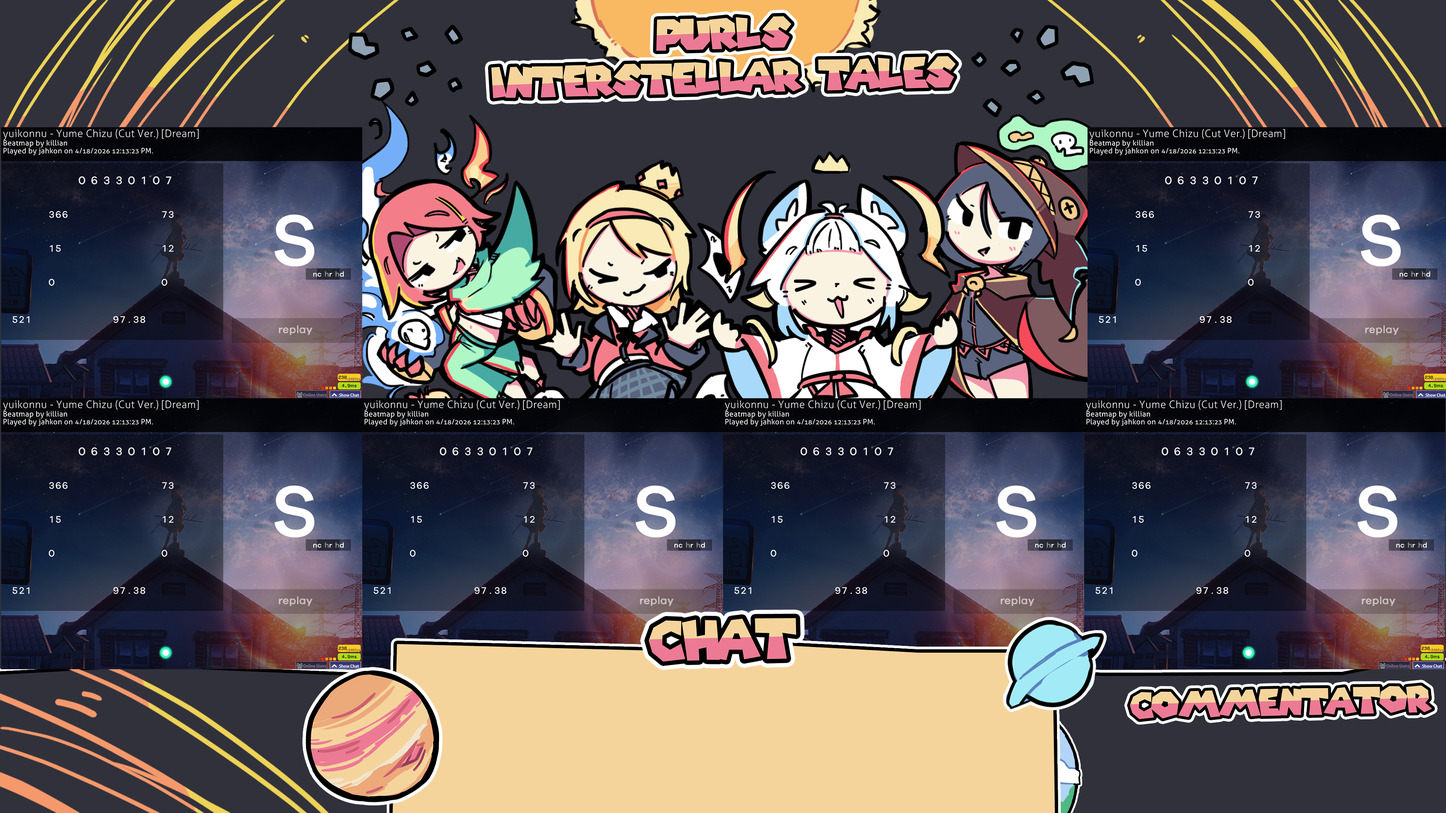
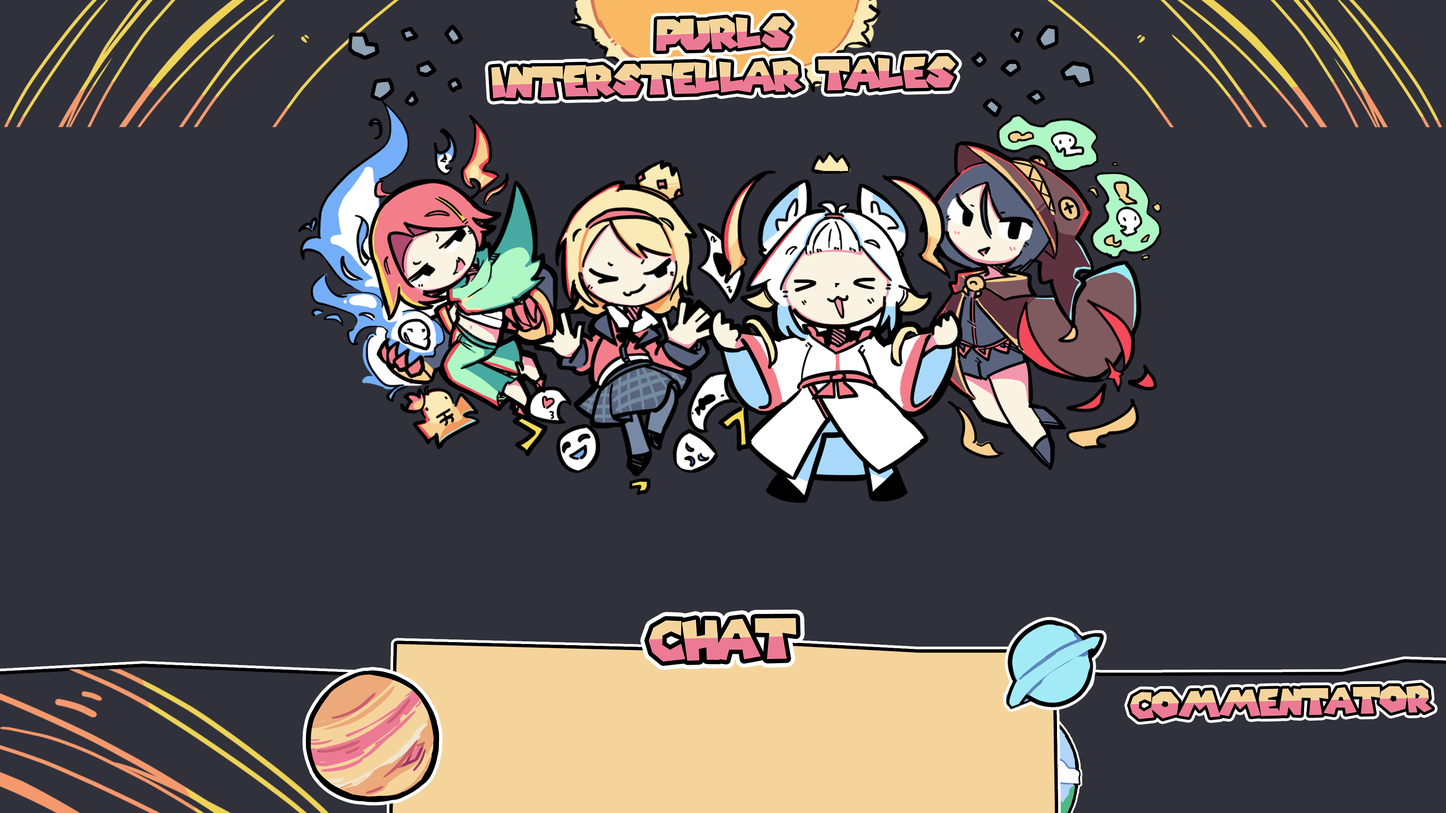
feat: complete adding greenscreen

diff --git a/main/style.css b/main/style.css
@@ -1,5 +1,8 @@
 :root {
     --team-star-container-x: 50px;
+    --greenscreen-top-y: 170px;
+    --greenscreen-width: 480px;
+    --greenscreen-height: 360px;
 }
 
 /* Whole Page */
@@ -29,3 +32,18 @@
     position: absolute;
     top: 135px;
 }
+
+/* Green Screens */
+.greenscreen {
+    position: absolute;
+    left: 0;
+    background-color: #0F0;
+    width: var(--greenscreen-width);
+    height: var(--greenscreen-height);
+}
+.greenscreen-top { top: var(--greenscreen-top-y); }
+.greenscreen-bottom { top: calc(var(--greenscreen-height) + var(--greenscreen-top-y)); }
+.greenscreen-x-1 { left: calc(var(--greenscreen-width) * 0); }
+.greenscreen-x-2 { left: calc(var(--greenscreen-width) * 1); }
+.greenscreen-x-3 { left: calc(var(--greenscreen-width) * 2); }
+.greenscreen-x-4 { left: calc(var(--greenscreen-width) * 3); }

diff --git a/main/index.html b/main/index.html
@@ -220,6 +220,14 @@
             <img class="team-star" src="static/stars/star empty.png">
             <img class="team-star" src="static/stars/star empty.png">
         </div>
+
+        <!-- Greenscreens -->
+        <div class="greenscreen greenscreen-top greenscreen-x-1"></div>
+        <div class="greenscreen greenscreen-bottom greenscreen-x-1"></div>
+        <div class="greenscreen greenscreen-bottom greenscreen-x-2"></div>
+        <div class="greenscreen greenscreen-top greenscreen-x-4"></div>
+        <div class="greenscreen greenscreen-bottom greenscreen-x-3"></div>
+        <div class="greenscreen greenscreen-bottom greenscreen-x-4"></div>
     </div>
 
     <script src="index.js" type="module"></script>
